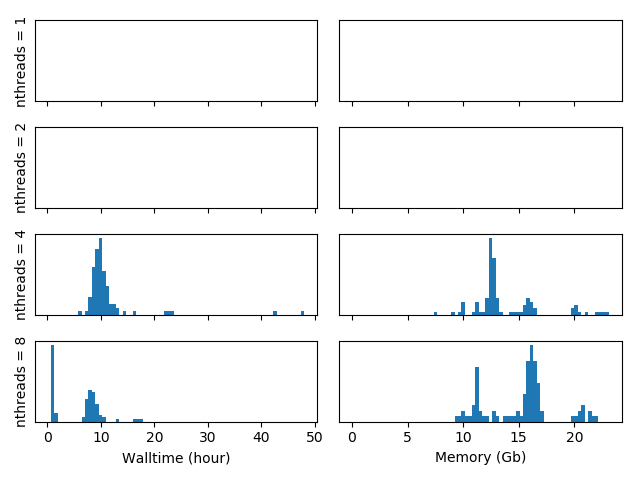
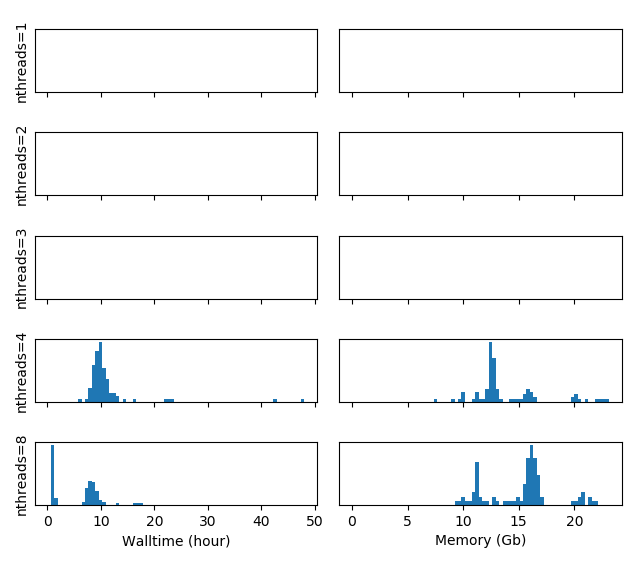
Updated documentation

diff --git a/hpc_resource_usage.py b/hpc_resource_usage.py
@@ -1,7 +1,7 @@
 #!/usr/bin/env python3
 # -*- coding: utf-8 -*-
 """
-Plots walltime and memory usage of jobs submitted to the compute cluster.
+The hpc_resource_usage.py utility plots walltime and memory usage of PBS jobs submitted to the compute cluster.
 """
 
 import argparse
@@ -66,6 +66,6 @@ if __name__ == '__main__':
     args = parser.parse_args()
 
     if args.datafolders == ['demo']:
-        args.datafolders = [Path(__file__).parent/'nthreads = 1', Path(__file__).parent/'nthreads = 2', Path(__file__).parent/'nthreads = 4', Path(__file__).parent/'nthreads = 8']
+        args.datafolders = [Path(__file__).parent/'nthreads=1', Path(__file__).parent/'nthreads=2', Path(__file__).parent/'nthreads=3', Path(__file__).parent/'nthreads=4', Path(__file__).parent/'nthreads=8']
 
     main(datadirs=[Path(datadir) for datadir in args.datafolders], maxwalltime_=args.walltime, maxmem_=args.mem, bins=args.bins)

diff --git a/fmriprep_sub.py b/fmriprep_sub.py
@@ -1,8 +1,8 @@
 #!/usr/bin/env python3
 # -*- coding: utf-8 -*-
 """
-fmriprep_sub.py is a wrapper around fmriprep that queries the bids directory for new
-participants and then runs participant-level fmriprep jobs on the compute cluster.
+The fmriprep_sub.py utility is a wrapper around fmriprep that queries the BIDS directory for new participants and
+then runs them (as single-participant fmriprep jobs) on the compute cluster.
 """
 
 import os

diff --git a/README.rst b/README.rst
@@ -1,31 +1,67 @@
 Utilities for using `fmriprep <https://fmriprep.org>`__ on the compute cluster at the `Donders Institute <https://www.ru.nl/donders/>`__ of the `Radboud University <https://www.ru.nl/english/>`__.
 
-fmriprep_sub:
-=============
+Running fmriprep on the HPC cluster:
+====================================
 
-The ``fmriprep_sub.py`` is a wrapper around fmriprep that queries the `BIDS <http://bids.neuroimaging.io>`__ directory for new participants and then runs participant-level fmriprep jobs on the compute cluster.
+The ``fmriprep_sub.py`` utility is a wrapper around fmriprep that queries the `BIDS <http://bids.neuroimaging.io>`__ directory for new participants and then runs them (as single-participant fmriprep jobs) on the compute cluster. For more info run: :code:`$ fmriprep_sub.py -h`
 
 Example:
 --------
 
 .. code-block:: console
 
-   $ fmriprep_sub.py /project/3017065.01/bids --nthreads 4 --mem_mb 28000
+   $ fmriprep_sub.py /project/3017065.01/bids --nthreads 3 --mem_mb 28000
+   >>> Submitting job (1/95):
+   qsub -l nodes=1:ppn=3,walltime=48:00:00,mem=28000mb,file=50gb -N fmriprep_sub-P004  <<EOF
+                            cd /home/mrphys/marzwi
+                            unset PYTHONPATH; export PYTHONNOUSERSITE=1; singularity run --cleanenv /opt/fmriprep/20.2.1/fmriprep-20.2.1.simg WUR_ADHD/bids WUR_ADHD/bids/derivatives participant -w \$TMPDIR --participant-label P004 --skip-bids-validation --fs-license-file /opt_host/fmriprep/license.txt --mem_mb 28000 --omp-nthreads 3 --nthreads 3
+   EOF
+   >>> Submitting job (2/95):
+   qsub -l nodes=1:ppn=3,walltime=48:00:00,mem=28000mb,file=50gb -N fmriprep_sub-P002  <<EOF
+                            cd /home/mrphys/marzwi
+                            unset PYTHONPATH; export PYTHONNOUSERSITE=1; singularity run --cleanenv /opt/fmriprep/20.2.1/fmriprep-20.2.1.simg WUR_ADHD/bids WUR_ADHD/bids/derivatives participant -w \$TMPDIR --participant-label P002 --skip-bids-validation --fs-license-file /opt_host/fmriprep/license.txt --mem_mb 28000 --omp-nthreads 3 --nthreads 3
+   EOF
+   >>> Submitting job (3/95):
+   [..]
+   >>> Submitting job (95/95):
+   qsub -l nodes=1:ppn=3,walltime=48:00:00,mem=28000mb,file=50gb -N fmriprep_sub-P295  <<EOF
+                            cd /home/mrphys/marzwi
+                            unset PYTHONPATH; export PYTHONNOUSERSITE=1; singularity run --cleanenv /opt/fmriprep/20.2.1/fmriprep-20.2.1.simg WUR_ADHD/bids WUR_ADHD/bids/derivatives participant -w \$TMPDIR --participant-label P295 --skip-bids-validation --fs-license-file /opt_host/fmriprep/license.txt --mem_mb 28000 --omp-nthreads 3 --nthreads 3
+   EOF
+
+   ----------------
+   Done! Now wait for the jobs to finish... Check that e.g. with this command:
+
+     qstat -a $(qselect -s RQ) | grep fmriprep_sub
+
+   For more details, see:
+
+     fmriprep -h
 
 HPC resource usage
 ==================
 
+The ``hpc_resource_usage.py`` utility plots walltime and memory usage of PBS jobs submitted to the compute cluster. For more info run: :code:`$ hpc_resource_usage.py -h`
 
 Example:
 --------
 
+The PBS logfiles of the ``fmriprep_sub.py`` command as shown above with 1, 2, 4 and 8 compute threads were saved in separate directories. These fmriprep (v20.2.1) benchmark results are plotted as example data when running the ``demo``:
+
 .. code-block:: console
 
    $ hpc_resource_usage.py demo
-   Reading logfiles from: "/opt/fmriprep/dccn/nthreads = 1"
-   Reading logfiles from: "/opt/fmriprep/dccn/nthreads = 2"
-   Reading logfiles from: "/opt/fmriprep/dccn/nthreads = 4"
-   Reading logfiles from: "/opt/fmriprep/dccn/nthreads = 8"
+   Reading logfiles from: "/opt/fmriprep/dccn/nthreads=1"
+   Reading logfiles from: "/opt/fmriprep/dccn/nthreads=2"
+   Reading logfiles from: "/opt/fmriprep/dccn/nthreads=3"
+   Reading logfiles from: "/opt/fmriprep/dccn/nthreads=4"
+   Reading logfiles from: "/opt/fmriprep/dccn/nthreads=8"
 
 .. image:: ./hpc_resource_usage.png
    :alt: HPC resource usage histograms
+
+Conclusions:
+ - The memory usage is largely independent of the number of compute threads
+ - The speed increase is not very significant when increasing the number of compute threads above 4
+ - The majority of jobs has a comparable walltime, but some jobs take much longer. NB: the spread of the walltimes is increased by the heterogeneity of the DCCN compute cluster and occasional inconsistencies (repeats) in the data acquisition in certain (heavily moving) participants
+ - As shown by the peak in the walltime hirstogram below 2h, a significant fraction of the jobs fails when the number of compute threads is set to 8. The full trace of the error message (``could not run node: fmriprep_wf.single_subject_P001_wf.anat_preproc_wf.fs_isrunning``) can be seen e.g. in ``./nthreads=8/fmriprep_sub-P001.o40897230``
